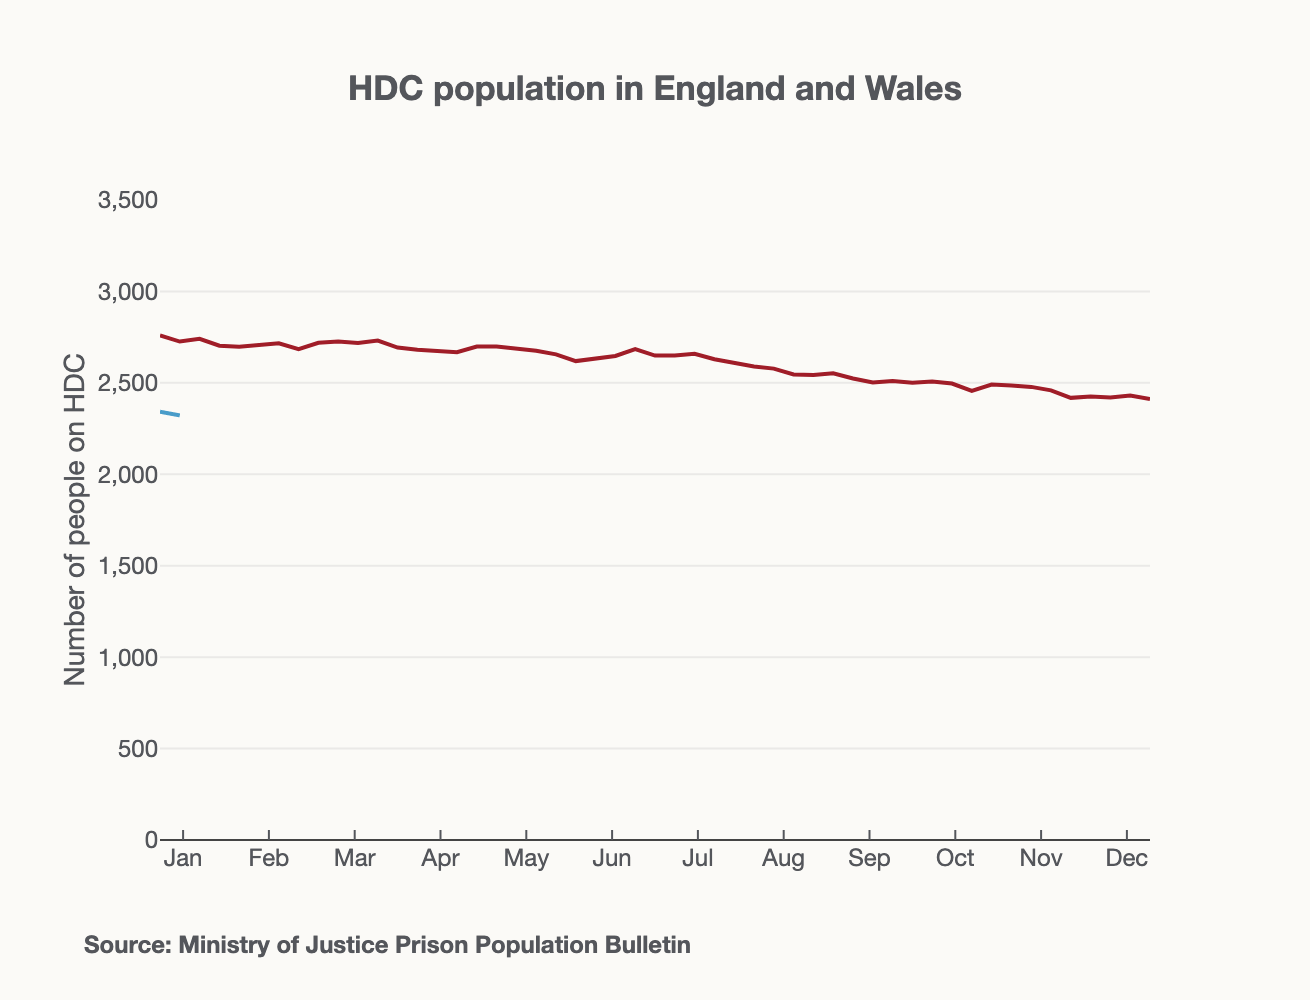
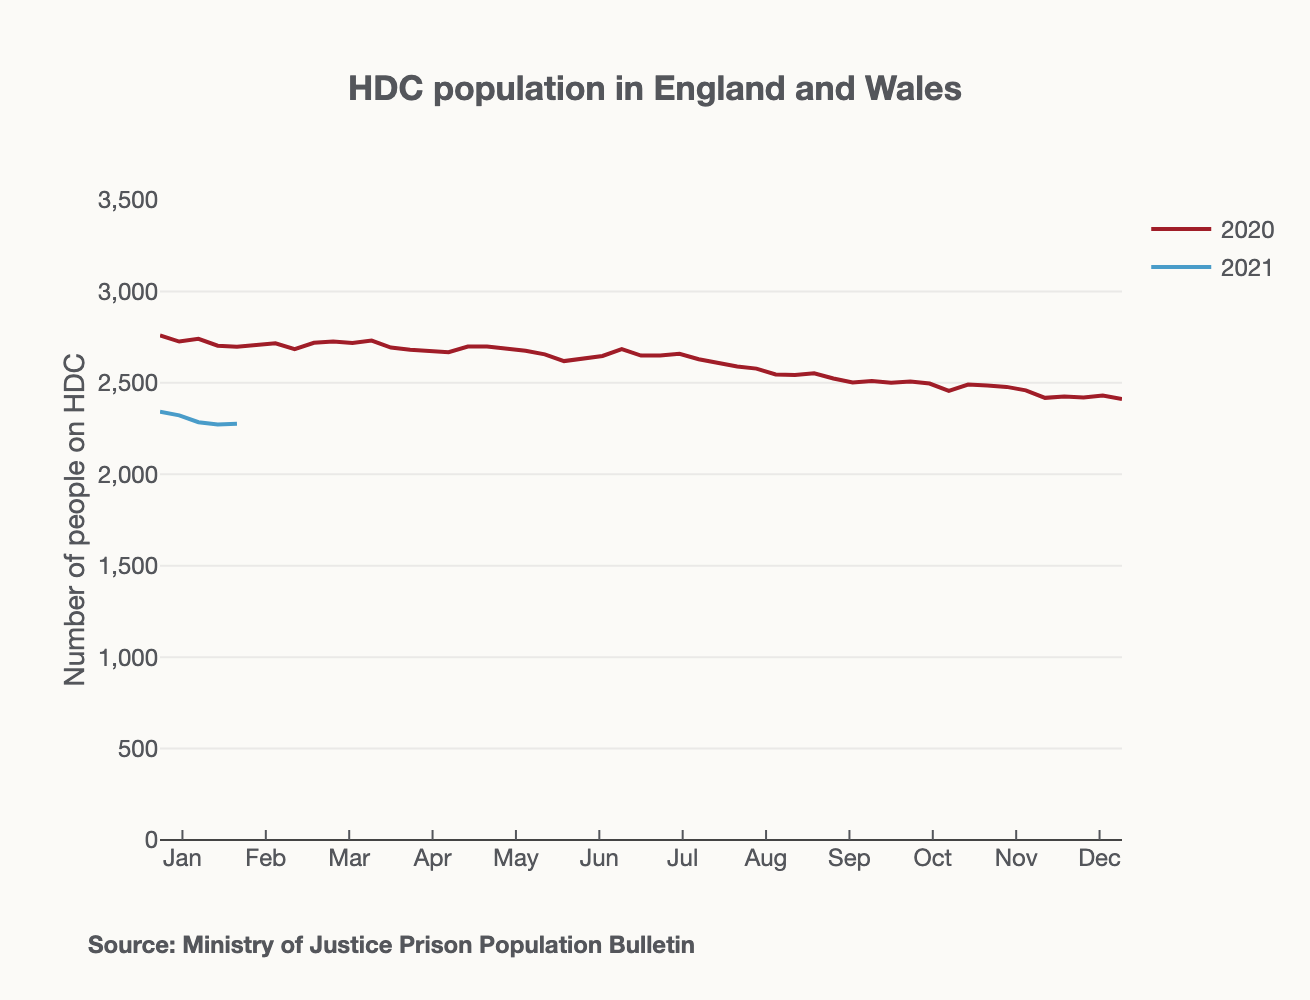
Weekly update
New data and charts for the last few weeks.

diff --git a/Scripts/HDC_caseload.py b/Scripts/HDC_caseload.py
@@ -82,7 +82,7 @@ fig.update_layout(title="<b>HDC population in England and Wales</b>",
                   xaxis_ticks="inside",
                   xaxis_tickcolor='#54565B',
                   template=prt_template,                   
-                  showlegend=False,
+                  showlegend=True,
                   hovermode='x',
                   modebar_activecolor="#A12833",
                   width=655,
@@ -114,6 +114,10 @@ fig.write_image("../images/HDC_population.png", width=655, height=500, scale=2)
 # fig.show(config={'displayModeBar': False})
 
 ##Plot file online with PRT logo
+
+#Removing the legend
+fig.update_layout(showlegend=False)
+
 
 ##PRT logo
 fig.layout.images =[dict(
